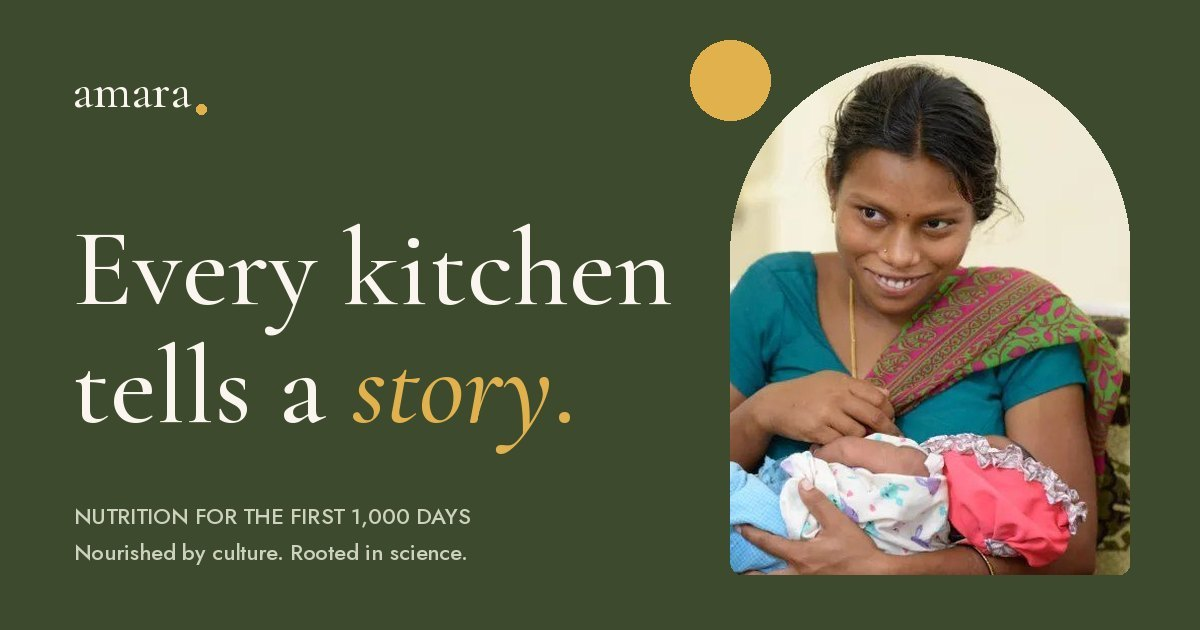
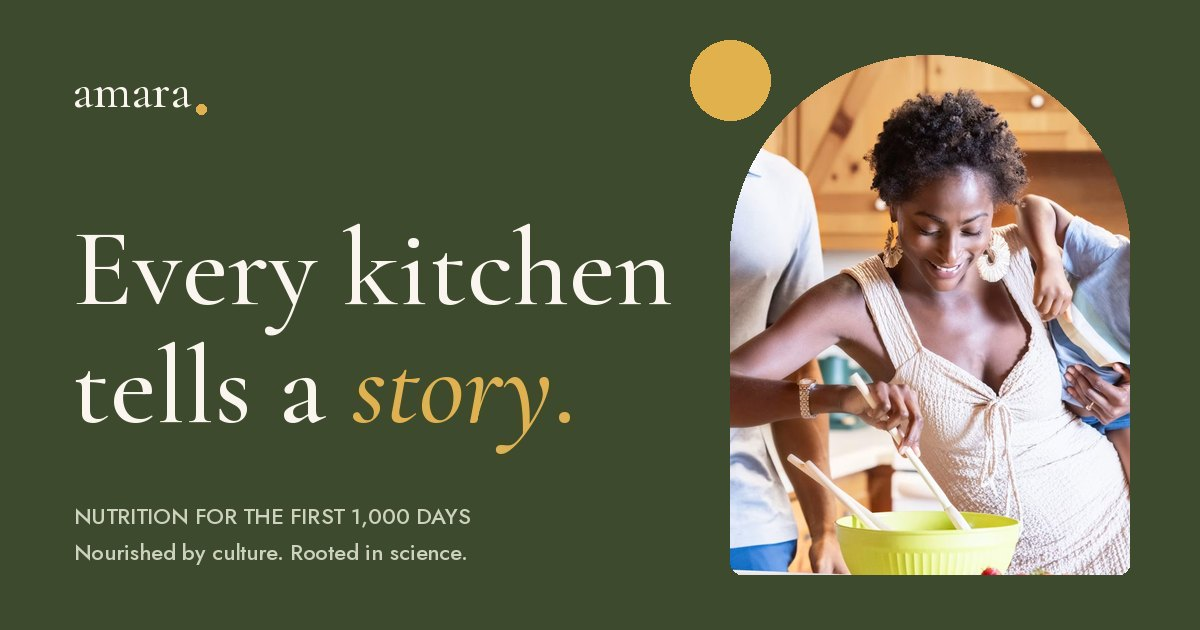
Replace site photos with high-resolution Unsplash images
- New hero (mother cooking with her family), "Who Amara is for" collage,
  1,000 days banner, and story portrait from the photo-candidates upload,
  plus a collard greens photo in the cultural foods list.
- Each photo ships as a full-size JPEG plus an -800 version, served with
  srcset/sizes so phones download less and Retina screens stay sharp.
- Restore the larger editorial collage now that images can hold it.
- Regenerate the social share image with the new hero photo.
- Add assets/img/CREDITS.md recording each photo's Unsplash source.

Claude-Session: https://claude.ai/code/session_0169984jrpwjxcBSJytRpTHi

Changed region(s): [[0.5858, 0.0905, 0.9558, 0.9349]]

diff --git a/index.html b/index.html
@@ -28,7 +28,7 @@
 <link rel="preconnect" href="https://fonts.gstatic.com" crossorigin>
 <link href="https://fonts.googleapis.com/css2?family=Cormorant+Garamond:ital,wght@0,400;0,500;0,600;1,400;1,500&family=Jost:wght@400;500;600&display=swap" rel="stylesheet">
 <link rel="stylesheet" href="/assets/css/styles.css">
-<link rel="preload" as="image" href="/assets/img/mother-newborn.jpg">
+<link rel="preload" as="image" href="/assets/img/hero-family-kitchen.jpg" imagesrcset="/assets/img/hero-family-kitchen-800.jpg 639w, /assets/img/hero-family-kitchen.jpg 944w" imagesizes="(max-width: 900px) 80vw, 36vw">
 
 <script type="application/ld+json">
 {
@@ -123,7 +123,7 @@
 
     <div class="hero-visual">
       <figure class="hero-photo arch img-reveal">
-        <img src="/assets/img/mother-newborn.jpg" alt="A smiling mother holding her newborn baby wrapped in a blanket" width="770" height="513" fetchpriority="high">
+        <img src="/assets/img/hero-family-kitchen.jpg" srcset="/assets/img/hero-family-kitchen-800.jpg 639w, /assets/img/hero-family-kitchen.jpg 944w" sizes="(max-width: 900px) 80vw, 36vw" alt="A smiling mother stirring a bowl in her kitchen while her partner and children gather around her" width="944" height="1181" fetchpriority="high">
       </figure>
       <span class="hero-dot" aria-hidden="true"></span>
 
@@ -207,23 +207,28 @@
 
     <div class="who-collage">
       <figure class="collage-a arch img-reveal">
-        <img src="/assets/img/kitchen-mother-baby.jpg" alt="A Black mother holding her baby in a home kitchen" width="301" height="167" loading="lazy">
+        <img src="/assets/img/mother-baby-embrace.jpg" srcset="/assets/img/mother-baby-embrace-800.jpg 800w, /assets/img/mother-baby-embrace.jpg 1600w" sizes="(max-width: 900px) 140vw, 64vw" alt="A young child asleep on her mother's shoulder" width="1600" height="900" loading="lazy">
       </figure>
       <figure class="collage-b img-reveal">
-        <img src="/assets/img/family-cooking.jpg" alt="A mother and her children preparing fresh vegetables together at the kitchen counter" width="275" height="183" loading="lazy">
+        <img src="/assets/img/family-table.jpg" srcset="/assets/img/family-table-800.jpg 600w, /assets/img/family-table.jpg 900w" sizes="(max-width: 900px) 40vw, 20vw" alt="A festive table set with clay bowls of food and fresh greens" width="900" height="1200" loading="lazy">
       </figure>
       <figure class="collage-c img-reveal">
-        <img src="/assets/img/pregnancy-rebozo.jpg" alt="A pregnant woman wearing a colorful woven rebozo and embroidered blouse" width="275" height="183" loading="lazy">
+        <img src="/assets/img/pregnancy-portrait.jpg" srcset="/assets/img/pregnancy-portrait-800.jpg 800w, /assets/img/pregnancy-portrait.jpg 900w" sizes="(max-width: 900px) 40vw, 20vw" alt="A pregnant woman in a green dress cradling her belly" width="900" height="600" loading="lazy">
       </figure>
       <figure class="collage-d img-reveal">
-        <img src="/assets/img/first-foods.jpg" alt="A mother spoon-feeding her smiling baby" width="275" height="183" loading="lazy">
+        <img src="/assets/img/first-foods.jpg" srcset="/assets/img/first-foods-800.jpg 533w, /assets/img/first-foods.jpg 987w" sizes="(max-width: 900px) 45vw, 25vw" alt="A laughing baby in a high chair eating from a wooden bowl" width="987" height="1481" loading="lazy">
       </figure>
     </div>
   </div>
 
   <div class="container">
     <div class="pantry reveal">
-      <p class="pantry-intro">Cultural foods are not exceptions to a nutritious diet. <em>They are part of it.</em></p>
+      <div class="pantry-lead">
+        <p class="pantry-intro">Cultural foods are not exceptions to a nutritious diet. <em>They are part of it.</em></p>
+        <figure class="pantry-photo img-reveal">
+          <img src="/assets/img/collard-greens.jpg" srcset="/assets/img/collard-greens-800.jpg 640w, /assets/img/collard-greens.jpg 1064w" sizes="(max-width: 900px) 60vw, 26vw" alt="Fresh collard green leaves on a wooden table" width="1064" height="1330" loading="lazy">
+        </figure>
+      </div>
       <dl class="pantry-list">
         <div><dt>Collard greens</dt><dd>Folate, calcium, vitamin K</dd></div>
         <div><dt>Black-eyed peas</dt><dd>Plant protein, iron, fiber</dd></div>
@@ -254,7 +259,7 @@
     </div>
 
     <figure class="days-photo img-reveal">
-      <img src="/assets/img/pregnant-mothers.jpg" alt="Four pregnant women standing side by side, hands resting on their bellies" width="900" height="299" loading="lazy">
+      <img src="/assets/img/pregnant-mothers.jpg" srcset="/assets/img/pregnant-mothers-800.jpg 800w, /assets/img/pregnant-mothers.jpg 1769w" sizes="(max-width: 1240px) 92vw, 1128px" alt="Two pregnant women standing side by side, hands resting on their bellies" width="1769" height="1181" loading="lazy">
     </figure>
 
     <ol class="pillar-rows">
@@ -316,7 +321,7 @@
           <p>No one told her which advice was evidence-based, which was tradition, and which was somewhere in between. She was left to figure it out alone.</p>
         </blockquote>
         <figure class="story-photo arch img-reveal">
-          <img src="/assets/img/mother-hijab-baby.jpg" alt="A young mother in a headscarf holding her baby close" width="183" height="275" loading="lazy">
+          <img src="/assets/img/story-window.jpg" srcset="/assets/img/story-window-800.jpg 534w, /assets/img/story-window.jpg 988w" sizes="280px" alt="Silhouette of a pregnant woman standing alone by a window" width="988" height="1480" loading="lazy">
         </figure>
       </aside>
     </div>

diff --git a/assets/css/styles.css b/assets/css/styles.css
@@ -246,7 +246,7 @@ p + p { margin-top: 1.1em; }
 .hero-visual { position: relative; min-height: 520px; }
 .arch { border-radius: var(--arch); overflow: hidden; background: var(--sand); }
 .hero-photo { width: 78%; margin-left: auto; aspect-ratio: 4 / 5; }
-.hero-photo img { width: 100%; height: 100%; object-fit: cover; object-position: 58% 50%; }
+.hero-photo img { width: 100%; height: 100%; object-fit: cover; object-position: 50% 30%; }
 .hero-dot {
   position: absolute; top: 4%; left: 6%; width: clamp(56px, 7vw, 96px); aspect-ratio: 1; border-radius: 50%;
   background: var(--gold);
@@ -301,25 +301,35 @@ p + p { margin-top: 1.1em; }
 .who-copy > p:not(.label) { color: var(--ink-soft); max-width: 34rem; }
 .who-copy .btn { margin-top: 36px; }
 .who-collage {
-  /* Frames are sized to the photos' native resolution (~275px wide) so they stay sharp. */
-  display: grid; grid-template-columns: repeat(2, minmax(0, 275px)); gap: 18px; justify-content: end; align-content: center;
+  display: grid; grid-template-columns: repeat(12, 1fr); grid-template-rows: repeat(14, clamp(26px, 3vw, 40px));
+  position: relative;
 }
-.who-collage figure { overflow: hidden; border-radius: 14px; aspect-ratio: 16 / 10; background: var(--sand); }
-.who-collage figure:nth-child(even) { transform: translateY(44px); }
+.who-collage figure { overflow: hidden; border-radius: 14px; background: var(--sand); }
 .who-collage img { width: 100%; height: 100%; object-fit: cover; }
-.collage-c img { object-position: 60% 40%; }
+.collage-a { grid-column: 1 / 8; grid-row: 1 / 11; border-radius: var(--arch) !important; }
+.collage-b { grid-column: 8 / 13; grid-row: 2 / 6; margin-left: 16px; }
+.collage-c { grid-column: 8 / 13; grid-row: 7 / 12; margin-left: 16px; }
+.collage-d { grid-column: 3 / 9; grid-row: 10 / 15; border: 8px solid var(--cream); border-radius: 22px !important; z-index: 2; }
+.collage-a img { object-position: 38% 30%; }
+.collage-b img { object-position: 50% 62%; }
+.collage-c img { object-position: 58% 60%; }
+.collage-d img { object-position: 50% 28%; }
 
 .pantry {
   margin-top: clamp(80px, 10vw, 140px); padding-top: 40px; border-top: 2px solid var(--olive);
   display: grid; grid-template-columns: minmax(0, 4fr) minmax(0, 8fr); gap: 24px clamp(40px, 6vw, 96px);
 }
+.pantry-photo { margin-top: 32px; width: min(100%, 300px); aspect-ratio: 4 / 5; border-radius: var(--arch); overflow: hidden; background: var(--sand); }
+.pantry-photo img { width: 100%; height: 100%; object-fit: cover; }
 .pantry-intro { font-family: var(--serif); font-size: clamp(1.6rem, 2.6vw, 2.25rem); line-height: 1.2; color: var(--olive); }
 .pantry-intro em { color: var(--terracotta-text); }
-.pantry-list { display: grid; grid-template-columns: repeat(3, 1fr); gap: 32px 32px; }
+.pantry-lead { grid-row: span 2; }
+.pantry-list { display: grid; grid-template-columns: repeat(3, 1fr); gap: 32px 32px; align-content: start; }
 .pantry-list div { border-top: 1px solid var(--line); padding-top: 14px; }
 .pantry-list dt { font-family: var(--serif); font-size: 1.6rem; font-weight: 500; line-height: 1.15; color: var(--olive); }
 .pantry-list dd { margin: 6px 0 0; font-size: .875rem; color: var(--sage-text); letter-spacing: .01em; }
-.pantry .fine { grid-column: 2; }
+.pantry .fine { grid-column: 2; align-self: start; }
+.pantry { grid-template-rows: auto 1fr; align-items: start; }
 
 /* ---------- 1,000 days ---------- */
 .days-number {
@@ -347,8 +357,8 @@ p + p { margin-top: 1.1em; }
   .js .timeline.is-visible .tl-bar { transform: none; }
 }
 
-.days-photo { margin-top: clamp(64px, 8vw, 112px); border-radius: 16px; overflow: hidden; max-width: 900px; }
-.days-photo img { width: 100%; aspect-ratio: 900 / 299; object-fit: cover; }
+.days-photo { margin-top: clamp(64px, 8vw, 112px); border-radius: 16px; overflow: hidden; }
+.days-photo img { width: 100%; aspect-ratio: 21 / 8; object-fit: cover; object-position: 50% 42%; }
 
 .pillar-rows {
   display: grid; grid-template-columns: repeat(2, minmax(0, 1fr)); gap: 0 clamp(40px, 6vw, 96px);
@@ -394,7 +404,7 @@ p + p { margin-top: 1.1em; }
   position: relative; font-family: var(--serif); font-style: italic; font-size: clamp(1.6rem, 2.4vw, 2.1rem);
   line-height: 1.32; color: var(--olive);
 }
-.story-photo { margin-top: 48px; width: 183px; aspect-ratio: 183 / 275; margin-left: auto; }
+.story-photo { margin-top: 48px; width: min(64%, 280px); aspect-ratio: 2 / 3; margin-left: auto; }
 .story-photo img { width: 100%; height: 100%; object-fit: cover; object-position: 50% 30%; }
 
 /* ---------- Experience ---------- */
@@ -710,9 +720,11 @@ p + p { margin-top: 1.1em; }
   .mission-grid, .who-grid, .story-grid, .feature, .partners-grid, .founders-head { grid-template-columns: 1fr; }
   .feature-flora .feature-visual { order: 2; }
   .feature-visual { margin-top: 8px; }
-  .who-collage { justify-content: start; padding-bottom: 44px; }
+  .who-collage { max-width: 560px; }
+  .pantry-photo { width: min(70%, 280px); }
   .pantry { grid-template-columns: 1fr; }
   .pantry .fine { grid-column: 1; }
+  .pantry-lead { grid-row: auto; }
   .pantry-list { grid-template-columns: repeat(2, 1fr); }
   .days-intro { justify-content: flex-start; }
   .pillar-rows, .days-foot { grid-template-columns: 1fr; }
@@ -755,3 +767,5 @@ p + p { margin-top: 1.1em; }
 .site-header.is-solid { background: rgba(250, 246, 239, .94); box-shadow: 0 1px 0 var(--line); }
 .header-back { margin-left: auto; }
 .footer-base-flush { margin-top: 0; }
+
+@media (max-width: 600px) { .collage-d { border-width: 5px; } }

diff --git a/README.md b/README.md
@@ -49,7 +49,7 @@ Spam protection is a hidden honeypot field. If spam becomes a problem, add rate 
 
 ## Before launch: content checklist
 
-- **Photography.** Most existing photos are small web thumbnails (about 300 px wide) of unknown licensing. Replace them with licensed, high-resolution images, keeping the same filenames in `assets/img/`. The hero photo should be at least 1200 px tall.
+- **Photography.** Photos are high-resolution Unsplash images (see `assets/img/CREDITS.md`). To swap one, export a full-size JPEG and an `-800` version with the same name, and update its `srcset` in `index.html`.
 - **Logo.** `assets/brand/amara-mark.svg` is drawn from the Cormorant Garamond "a" plus the gold dot. Replace it with the official brand-board file if it differs.
 - **Social image URL.** `og:image` is a relative path. Once the production domain is known, change it to an absolute URL (`https://yourdomain.com/assets/brand/og-image.jpg`) so every platform picks it up.
 - **Privacy notice.** Have `privacy.html` reviewed, and add a contact email.

diff --git a/assets/img/CREDITS.md b/assets/img/CREDITS.md
@@ -1,0 +1,16 @@
+# Photo credits
+
+Site photos (other than the founder portraits) come from Unsplash and are used under the Unsplash License (free for commercial use; attribution not required). Source IDs are recorded so each image can be traced back to Unsplash.
+
+| File | Unsplash source image |
+| --- | --- |
+| `hero-family-kitchen.jpg` | `photo-1761839258568-fd466a93f68b` |
+| `mother-baby-embrace.jpg` | `photo-1548783102-9eed000b70ef` |
+| `family-table.jpg` | `photo-1650678192497-28e426bb627c` |
+| `pregnancy-portrait.jpg` | `photo-1568043625493-2b0633c7c491` |
+| `first-foods.jpg` | `photo-1548289227-b7d966b70003` |
+| `pregnant-mothers.jpg` | `photo-1608665432123-ba3575f4ebb7` |
+| `story-window.jpg` | `photo-1551457457-699ff7c5d5f5` |
+| `collard-greens.jpg` | `collard.avif` (uploaded with the Unsplash set; confirm source) |
+
+Each photo has a full-size file and an `-800` version for smaller screens; the page picks between them with `srcset`.
